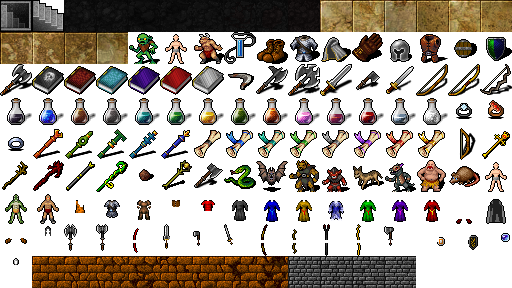
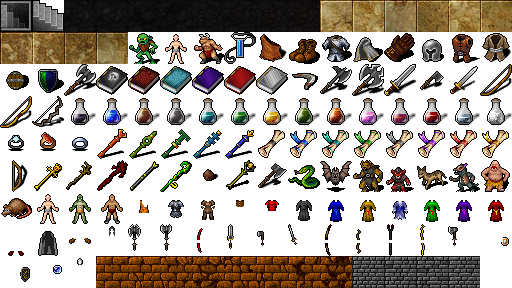
feat: DCSS starting kits per job (armour and consumables)

diff --git a/src/data/hero.ts b/src/data/hero.ts
@@ -35,6 +35,10 @@ export interface HeroDefinition {
   readonly aptitudes: Readonly<Record<string, Aptitude>>;
   readonly startingWeapon: string;
   readonly startingOffhand?: string;
+  /** Body armour worn from the start, as in the DCSS job's kit. */
+  readonly startingArmour?: string;
+  /** Consumables carried from the start, already identified. */
+  readonly startingItems: readonly { readonly id: string; readonly count: number }[];
   readonly startingAmmo: number;
   readonly startingSkills: Readonly<Record<string, number>>;
 }
@@ -64,6 +68,10 @@ function job(id: string): JobRow {
   if ('startingOffhand' in row && typeof row.startingOffhand === 'string' && itemDefinition(row.startingOffhand).kind !== 'spellbook') {
     throw new Error('jobs.json: ' + row.id + '.startingOffhand: 마법서가 아님');
   }
+  if ('startingArmour' in row && typeof row.startingArmour === 'string' && itemDefinition(row.startingArmour).kind !== 'armour') {
+    throw new Error('jobs.json: ' + row.id + '.startingArmour: 갑옷이 아님');
+  }
+  for (const item of ('startingItems' in row ? row.startingItems : undefined) ?? []) itemDefinition(item.id);
   for (const skill of Object.keys(row.startingSkills)) {
     if (!SKILLS.some((entry) => entry.id === skill)) {
       throw new Error('jobs.json: ' + id + '.startingSkills: 없는 스킬 ' + skill);
@@ -101,6 +109,8 @@ export function heroFor(speciesId = 'minotaur', jobId = 'berserker'): HeroDefini
     aptitudes: s.aptitudes as Readonly<Record<string, Aptitude>>,
     startingWeapon: j.startingWeapon,
     ...('startingOffhand' in j ? { startingOffhand: j.startingOffhand } : {}),
+    ...('startingArmour' in j ? { startingArmour: j.startingArmour } : {}),
+    startingItems: ('startingItems' in j ? j.startingItems : undefined) ?? [],
     startingAmmo: j.startingAmmo,
     startingSkills,
   };

diff --git a/src/sim/world.ts b/src/sim/world.ts
@@ -17,7 +17,8 @@ import { tickHop, tryHop } from './hop';
 import { thinkMonster } from './monster';
 import { fillFloor, lingering } from './packs';
 import { cellNoise, makeRng, type Rng } from './rng';
-import { initializeItemKnowledge } from './identification';
+import { identifyItem, initializeItemKnowledge } from './identification';
+import { addConsumable, type ConsumableId } from './consumables';
 import { heroSpeed, openStartingSkills } from './skills';
 import { castAt, stepSpells } from './spells';
 import type { FloorState, Input, Stairs, World } from './types';
@@ -177,7 +178,10 @@ export function makeWorld(options: WorldOptions = {}): World {
     seed,
     weapon,
     inventory: [],
-    gear: heroDef.startingOffhand ? { offhand: heroDef.startingOffhand } : {},
+    gear: {
+      ...(heroDef.startingOffhand ? { offhand: heroDef.startingOffhand } : {}),
+      ...(heroDef.startingArmour ? { armour: heroDef.startingArmour } : {}),
+    },
     gearEnchantment: {},
     cursedGear: new Set<string>(),
     identifiedItems: new Set<string>(),
@@ -216,6 +220,11 @@ export function makeWorld(options: WorldOptions = {}): World {
     won: false,
   };
   initializeItemKnowledge(world);
+  // The job's starting consumables, known from the start as in DCSS.
+  for (const item of heroDef.startingItems) {
+    addConsumable(world, item.id as ConsumableId, item.count);
+    identifyItem(world, item.id);
+  }
   openStartingSkills(world);
   enter(world, floor, options.monsters !== false);
   return world;

diff --git a/tests/unit/inventorySheets.test.ts b/tests/unit/inventorySheets.test.ts
@@ -3,17 +3,16 @@ import { bagEntries, equipmentSlots } from '../../src/ui/inventorySheets';
 import { makeWorld } from '../../src/sim/world';
 
 describe('equipment and bag presentation', () => {
-  it('shows the real equipped weapon and does not invent unavailable armour', () => {
+  it("shows the real equipped weapon and the job's starting armour", () => {
     const w = makeWorld({ monsters: false, items: false });
     const slots = equipmentSlots(w);
     expect(slots.find((slot) => slot.id === 'weapon')?.value).toBe(w.weapon.name);
-    expect(slots.find((slot) => slot.id === 'armour')).toMatchObject({ available: true, value: '—' });
+    expect(slots.find((slot) => slot.id === 'armour')).toMatchObject({ available: true, value: '짐승 가죽 갑옷' });
     expect(slots.filter((slot) => slot.available)).toHaveLength(10);
   });
 
   it('uses the same weapon in the equipment and bag views', () => {
     const w = makeWorld({ monsters: false, items: false });
     expect(bagEntries(w).find((entry) => entry.equipped)?.id).toBe(w.weapon.uid);
-    expect(bagEntries(w).filter((entry) => entry.group === 'consumable')).toHaveLength(0);
   });
 });

diff --git a/tests/unit/startingKit.test.ts b/tests/unit/startingKit.test.ts
@@ -1,0 +1,22 @@
+import { describe, expect, it } from 'vitest';
+import { makeWorld } from '../../src/sim/world';
+
+describe('DCSS starting kits', () => {
+  it('dresses a berserker in animal skin', () => {
+    const w = makeWorld({ monsters: false, items: false, job: 'berserker' });
+    expect(w.gear.armour).toBe('animal_skin');
+  });
+
+  it('gives a fire mage a robe and a known potion of magic', () => {
+    const w = makeWorld({ monsters: false, items: false, job: 'fire_mage' });
+    expect(w.gear.armour).toBe('robe');
+    expect(w.inventory.some((e) => e.kind === 'consumable' && e.id === 'potion_magic')).toBe(true);
+    expect(w.identifiedItems.has('potion_magic')).toBe(true);
+  });
+
+  it('gives a spellblade leather armour and a scroll of blinking', () => {
+    const w = makeWorld({ monsters: false, items: false, job: 'spellblade' });
+    expect(w.gear.armour).toBe('leather_armour');
+    expect(w.inventory.some((e) => e.kind === 'consumable' && e.id === 'scroll_blink')).toBe(true);
+  });
+});

diff --git a/src/view/doll.ts b/src/view/doll.ts
@@ -29,6 +29,7 @@ const OUTFIT: Readonly<Record<string, string>> = {
 };
 
 const WORN: Readonly<Record<string, string>> = {
+  animal_skin: 'player/body/animal_skin',
   leather_armour: 'player/body/leather_armour',
   chain_mail: 'player/body/chainmail',
   helmet_iron: 'player/head/iron1',
@@ -87,7 +88,9 @@ export function layersFor(
     gear.cloak ? WORN[gear.cloak] : undefined,
     BASE[species],
     gear.boots ? WORN[gear.boots] : undefined,
-    (gear.armour && WORN[gear.armour]) || (job ? OUTFIT[job] : undefined),
+    (gear.armour && gear.armour !== 'robe' && WORN[gear.armour]) ||
+      (job ? OUTFIT[job] : undefined) ||
+      (gear.armour === 'robe' ? 'player/body/robe_brown' : undefined),
     gear.gloves ? WORN[gear.gloves] : undefined,
     weapon ? wielded(weapon) : undefined,
     offhand ? (WORN[offhand] ?? (offhand.startsWith('spellbook') ? 'player/hand2/orb1' : undefined)) : undefined,

diff --git a/tests/unit/arena.ts b/tests/unit/arena.ts
@@ -3,16 +3,19 @@ import { STEP, makeWorld, stepWorld, type Input, type SimEvent, type World } fro
 
 export const STILL: Input = { mx: 0, my: 0 };
 
-/** One open room, 18 by 18, the hero in the middle and nothing else in it. */
+/** One open room, 18 by 18, the hero in the middle, unarmoured, and nothing else in it. */
 export function arena(depth = 1): World {
   const grid = makeGrid(20, 20);
   carve(grid, 1, 1, 18, 18);
-  return makeWorld({
+  const w = makeWorld({
     floor: { grid, start: { x: 10, y: 10 }, rooms: [{ x: 1, y: 1, w: 18, h: 18 }] },
     monsters: false,
     items: false,
     depth,
   });
+  // The fight numbers here are for a bare hero, without the job's starting body armour.
+  delete w.gear.armour;
+  return w;
 }
 
 /** A world whose hero holds its own blows, to watch what monsters do. */

diff --git a/src/data/tiles.gen.ts b/src/data/tiles.gen.ts
@@ -1,7 +1,7 @@
 // Written by tools/packTiles.mjs. Do not edit by hand.
 export const TILE_SIZE = 32;
 export const ATLAS_COLS = 16;
-export const SHEET_VERSION = '979d7ec6da';
+export const SHEET_VERSION = '33283e3a05';
 export const TILE_NAMES = [
   'feat/stone_stairs_down',
   'feat/stone_stairs_up',
@@ -27,12 +27,14 @@ export const TILE_NAMES = [
   'hero/deep_elf_m',
   'hero/minotaur',
   'item/amulet/sapphire',
+  'item/armour/animal_skin1',
   'item/armour/boots1',
   'item/armour/chain_mail1',
   'item/armour/cloak2',
   'item/armour/glove1',
   'item/armour/headgear/helmet1',
   'item/armour/leather_armour1',
+  'item/armour/robe1',
   'item/armour/shields/buckler1',
   'item/armour/shields/kite_shield1',
   'item/battle_axe1',

diff --git a/tests/unit/rewards.test.ts b/tests/unit/rewards.test.ts
@@ -35,9 +35,10 @@ describe('level-up item reward integration', () => {
   it('puts awarded armour in the bag without silently equipping it', () => {
     const w = levelUp(202);
     const offer = w.rewardChoices!.find((card) => card.kind === 'gear')!;
+    const worn = { ...w.gear };
     expect(chooseReward(w, offer.id)).toBe(true);
     expect(w.inventory.some((entry) => entry.kind === 'gear' && entry.id === offer.itemId)).toBe(true);
-    expect(Object.values(w.gear)).toHaveLength(0);
+    expect(w.gear).toEqual(worn);
   });
 
   it('stacks awarded consumables and identifies the chosen item', () => {
